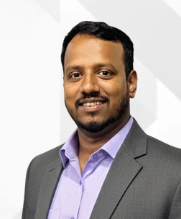
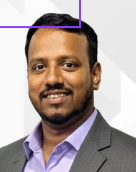
Update official headshot for Shanmugam - Operations Head

diff --git a/legacy-pages/team.html b/legacy-pages/team.html
@@ -592,6 +592,27 @@ loading="lazy" decoding="async" src="https://www.facebook.com/tr?id=149510223534
                             </div>
                         </div>
 
+                        <div class="col-lg-4 col-md-6">
+                            <div class="team-item hover-img style-color-white style-2">
+                                <div class="top-item">
+                                    <a href="/about" class="image">
+                                        <img loading="lazy" decoding="async" src="/image/team/shanmugam.png" data-src="/image/team/shanmugam.png" alt="Shanmugam - Operations Head, AARAA Infrastructure" class="lazyload" style="object-fit: cover; aspect-ratio: 1/1;">
+                                    </a>
+                                    <div class="post-social style-column style-53px">
+                                        <ul>
+                                            <li><a href="https://www.linkedin.com/company/aaraa-infrastructure/" class="icon-socila" target="_blank" rel="noopener"><i class="fab fa-linkedin-in"></i></a></li>
+                                        </ul>
+                                    </div>
+                                </div>
+                                <div class="team-content">
+                                    <h6>
+                                        <a href="/about" class="name-title fw6">Shanmugam</a>
+                                    </h6>
+                                    <div class="position">Operations Head</div>
+                                </div>
+                            </div>
+                        </div>
+
                     </div>
                 </div>
             </div>
